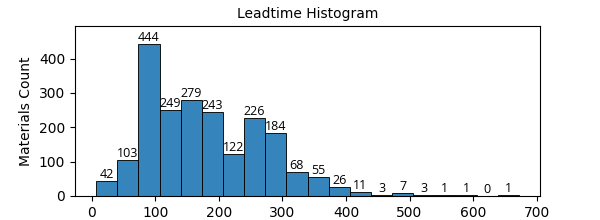
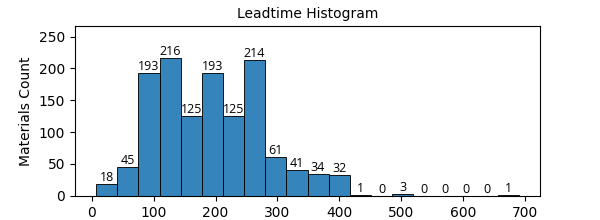
Correção de algumas leituras para trabalhar com novo arquivo de RSPL. Testado e funcionando com a RSPL FAP.

diff --git a/bup_plan_analyzer.py b/bup_plan_analyzer.py
@@ -72,7 +72,7 @@ def read_scope_file(file_full_path: str):
     # Convertendo as colunas numéricas de float para int
     bup_scope['ECODE'] = bup_scope['ECODE'].astype(int)
     bup_scope['QTY'] = bup_scope['QTY'].astype(int)
-    bup_scope['LEADTIME'] = bup_scope['LEADTIME'].astype(int)
+    bup_scope['LEADTIME'] = bup_scope['LEADTIME'].fillna(127).astype(int)  # Leadtime default 127
     # Garantindo que Acq Cost seja flutuante
     ecode_data_filtered['ACQCOST'] = ecode_data_filtered['ACQCOST'].str.replace(',', '.').astype(float)
 
